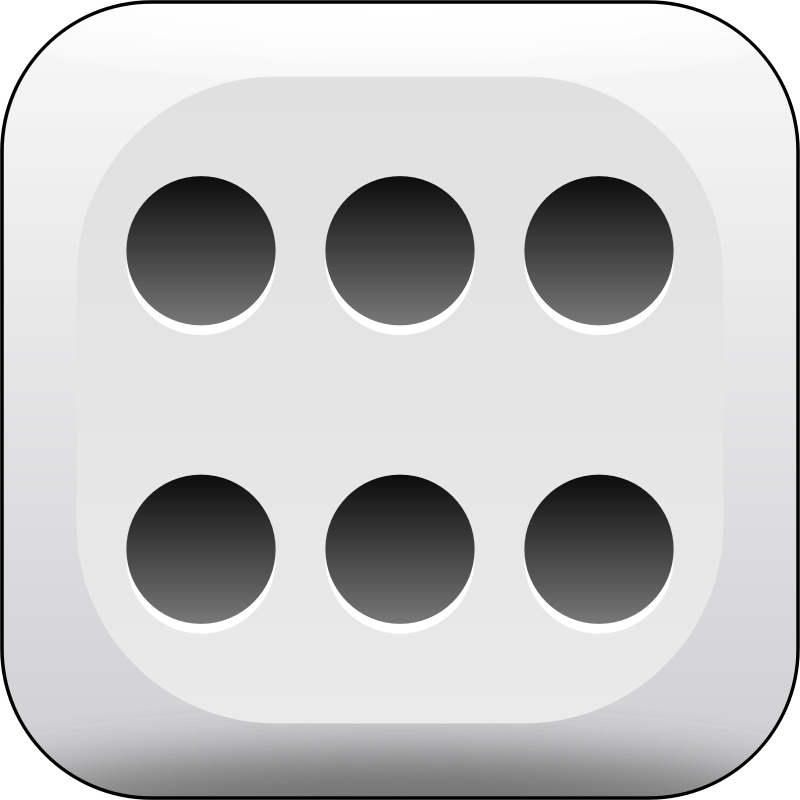
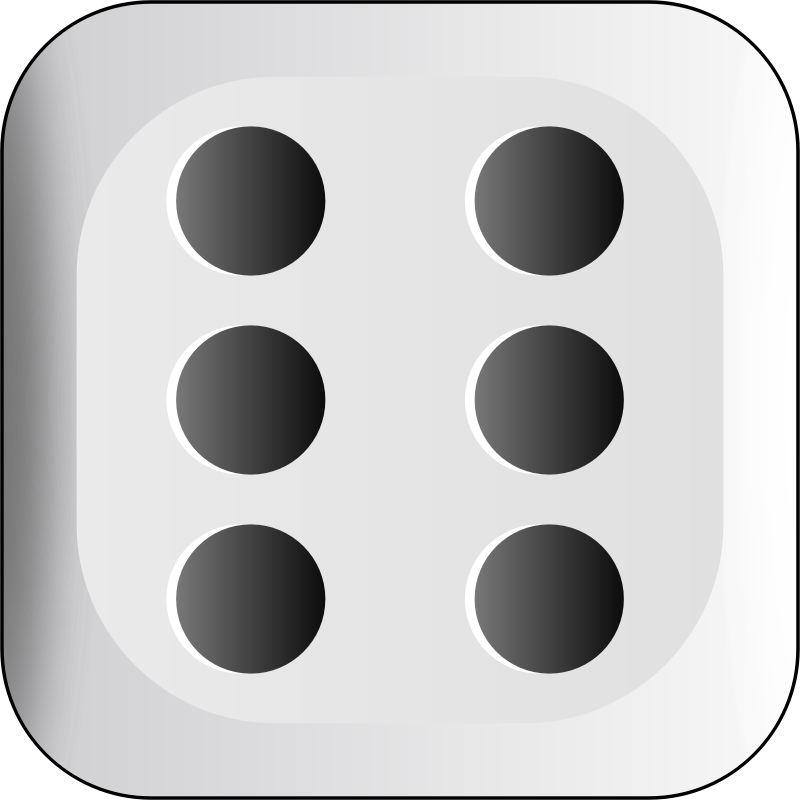
More ui layouting

diff --git a/internal/views/dice.go b/internal/views/dice.go
@@ -1,39 +1,103 @@
 package views
 
 import (
-	"fmt"
 	"github.com/ryjen/imgui-go"
 	"micrantha.com/yahtsee/internal/graphics"
+	"micrantha.com/yahtsee/internal/yahtsee"
+	"time"
 )
 
-const DiceViewID = "DiceView"
+const diceViewID = "DiceView"
 
-type DiceView struct {}
+var diceViewSize = imgui.Vec2{X: 200, Y: 170}
+
+type DiceView struct {
+	currentRoll yahtsee.Roll
+	selectedDice yahtsee.Roll
+}
+
+var diceTextures = [6]graphics.TextureTypes {
+	graphics.Die1,
+	graphics.Die2,
+	graphics.Die3,
+	graphics.Die4,
+	graphics.Die5,
+	graphics.Die6,
+}
+
+var selectedTextures = [6]graphics.TextureTypes {
+	graphics.Die1,
+	graphics.Die2,
+	graphics.Die3,
+	graphics.Die4,
+	graphics.Die5,
+	graphics.Die6,
+}
 
 func NewDiceView() *DiceView {
-	return &DiceView{}
+	return &DiceView{
+		currentRoll: yahtsee.Shake(),
+		selectedDice: yahtsee.Roll{},
+	}
+}
+
+func (view *DiceView) showDie(pos int) {
+
+	var texture *graphics.Texture
+
+	die := view.selectedDice[pos]
+
+	if die == 0 {
+
+		die = view.currentRoll[pos]
+
+		texture = graphics.Textures.Get(diceTextures[die-1])
+
+	} else {
+		texture = graphics.Textures.Get(selectedTextures[die-1])
+	}
+
+	size := imgui.Vec2{X: float32(48), Y: float32(48)}
+
+	imgui.Image(texture.Id, size)
+
+	//if imgui.ImageButton(texture.Id, size) {
+	//	view.selectedDice[pos] = die
+	//}
 }
 
 func (view *DiceView) Render() {
+	if imgui.BeginChildV(diceViewID, diceViewSize, true, 0) {
 
-	if imgui.BeginChild(DiceViewID) {
+		imgui.SameLineV(12, 0)
 
-		imgui.PushFont(graphics.Fonts.Get(graphics.FontAwesomeLarge))
+		imgui.BeginGroup()
 
-		imgui.Text(fmt.Sprintf("Ace %c", graphics.FontAwesomeDie1))
-		imgui.Text(string(graphics.FontAwesomeDie2))
-		imgui.Text(string(graphics.FontAwesomeDie3))
-		imgui.Text(string(graphics.FontAwesomeDie4))
-		imgui.Text(string(graphics.FontAwesomeDie5))
-		imgui.Text(string(graphics.FontAwesomeDie6))
+		imgui.ColumnsV(3, "DiceTextures", false)
 
-		imgui.PopFont()
+		for i := 0; i < len(view.currentRoll); i++ {
+			view.showDie(i)
 
-		//texture := graphics.Textures.Get(graphics.Die1)
-		//
-		//size := imgui.Vec2{X: float32(texture.Width), Y: float32(texture.Height)}
-		//
-		//imgui.Image(texture.Id, size)
+			imgui.NextColumn()
+			imgui.NextColumn()
+		}
+
+		imgui.EndGroup()
+	}
+	imgui.EndChild()
+
+	if imgui.BeginChildV("DiceActions", imgui.Vec2{X: 200, Y: 20 }, false, 0) {
+
+		imgui.SameLineV(50, 0)
+
+		if imgui.ButtonV("Roll", imgui.Vec2{X: 100, Y: 20}) {
+			go func() {
+				for i := 0; i < 15; i++ {
+					view.currentRoll = yahtsee.Shake()
+					time.Sleep(time.Millisecond * 100)
+				}
+			}()
+		}
 	}
 	imgui.EndChild()
 }

diff --git a/internal/views/sheet.go b/internal/views/sheet.go
@@ -7,21 +7,18 @@ import (
 	"strconv"
 )
 
-const (
-	// BoardViewID The id of the board view
-	BoardViewID = "BoardView"
-)
+const sheetViewID = "SheetView"
 
-var BoardSize = imgui.Vec2{ X:float32(650), Y:float32(415) }
+var sheetViewSize = imgui.Vec2{ X:float32(650), Y:float32(440) }
 
-// BoardView A view of the score sheet
-type BoardView struct {
+// SheetView A view of the score sheet
+type SheetView struct {
 	history []*yahtsee.Score
 }
 
-// NewBoardView Creates a new board view
-func NewBoardView() *BoardView {
-	view := &BoardView{nil}
+// NewSheetView Creates a new board view
+func NewSheetView() *SheetView {
+	view := &SheetView{nil}
 
 	view.history = append(view.history, &yahtsee.Score{})
 
@@ -29,15 +26,14 @@ func NewBoardView() *BoardView {
 }
 
 // CurrentScore gets the current score from the history
-func (view *BoardView) CurrentScore() *yahtsee.Score {
+func (view *SheetView) CurrentScore() *yahtsee.Score {
 	return view.history[0]
 }
 
 // Render displays the board view
-func (view *BoardView) Render() {
+func (view *SheetView) Render() {
 
-
-	if imgui.BeginChildV(BoardViewID, BoardSize, false, imgui.WindowFlagsAlwaysAutoResize) {
+	if imgui.BeginChildV(sheetViewID, sheetViewSize, false, imgui.WindowFlagsAlwaysAutoResize) {
 
 		imgui.ColumnsV(3, "Upper", true)
 
@@ -84,6 +80,6 @@ func (view *BoardView) Render() {
 }
 
 // Update updates logic in the board view
-func (view *BoardView) Update() {
+func (view *SheetView) Update() {
 
 }

diff --git a/internal/views/side.go b/internal/views/side.go
@@ -2,19 +2,23 @@ package views
 
 import "github.com/ryjen/imgui-go"
 
-const SideViewID = "SideView"
+const sideViewID = "SideView"
 
 var sideViewSize = imgui.Vec2{
-	X: 200, Y: 500,
+	X: 200, Y: 440,
 }
 
 type SideView struct {
+	players *PlayersView
 	dice *DiceView
+	chat *ChatView
 }
 
 func NewSideView() *SideView {
 	return &SideView{
+		players: NewPlayersView(),
 		dice: NewDiceView(),
+		chat: NewChatView(),
 	}
 }
 
@@ -22,12 +26,18 @@ func (view *SideView) Render() {
 
 	imgui.SameLine()
 
-	if imgui.BeginChildV(SideViewID, sideViewSize, true, imgui.WindowFlagsAlwaysAutoResize) {
+	if imgui.BeginChildV(sideViewID, sideViewSize, false, imgui.WindowFlagsAlwaysAutoResize) {
 
+		view.players.Render()
 		view.dice.Render()
+		view.chat.Render()
 	}
 
 	imgui.EndChild()
 }
 
-func (view *SideView) Update() {}
+func (view *SideView) Update() {
+	view.players.Update()
+	view.dice.Update()
+	view.chat.Update()
+}

diff --git a/internal/views/players.go b/internal/views/players.go
@@ -1,0 +1,40 @@
+package views
+
+import "github.com/ryjen/imgui-go"
+
+const playersViewId = "PlayersView"
+
+var playersViewSize = imgui.Vec2{X: 200, Y: 80 }
+
+type PlayersView struct {
+	OnSelect func()
+}
+
+func NewPlayersView() *PlayersView {
+	return &PlayersView{
+		OnSelect: func(){},
+	}
+}
+
+func (view *PlayersView) Render() {
+
+	if imgui.BeginChildV(playersViewId, playersViewSize, true, imgui.WindowFlagsMenuBar) {
+
+		if imgui.BeginMenuBar() {
+			if imgui.BeginMenu("Players") {
+				imgui.EndMenu()
+			}
+			imgui.EndMenuBar()
+		}
+
+		if imgui.Selectable("You") {
+			view.OnSelect()
+		}
+	}
+
+	imgui.EndChild()
+}
+
+func (view *PlayersView) Update() {
+
+}

diff --git a/internal/views/menu.go b/internal/views/menu.go
@@ -16,7 +16,7 @@ type MenuView struct {
 func NewMenuView(callbacks *MenuCallbacks) *MenuView {
 	return &MenuView{
 		callbacks: callbacks,
-		showAbout:	false,
+		showAbout: false,
 		showDemo: false,
 	}
 }
@@ -34,7 +34,6 @@ func (view *MenuView) Render() {
 			if imgui.MenuItemV("Exit", "X", false, true) {
 				view.callbacks.OnGameExit()
 			}
-
 			imgui.EndMenu()
 		}
 
@@ -46,10 +45,10 @@ func (view *MenuView) Render() {
 			if imgui.MenuItemV("Demo", "D", false, true) {
 				view.showDemo = true
 			}
-
 			imgui.EndMenu()
 		}
 	}
+
 	imgui.EndMainMenuBar()
 
 	if view.showAbout {

diff --git a/internal/ui.go b/internal/ui.go
@@ -38,9 +38,7 @@ func (ui *Ui) loadViews(config *Config)  {
 
 	ui.Add(views.NewMenuView(menu))
 
-	//ui.Add(views.NewDemoView())
-
-	ui.Add(views.NewBoardView())
+	ui.Add(views.NewSheetView())
 
 	ui.Add(views.NewSideView())
 }
@@ -93,9 +91,13 @@ func (ui *Ui) Render() {
 		imgui.WindowFlagsAlwaysAutoResize|imgui.WindowFlagsNoTitleBar|
 			imgui.WindowFlagsNoCollapse|imgui.WindowFlagsNoMove) {
 
+		imgui.PushFont(graphics.Fonts.Get(graphics.FontAwesome))
+
 		for _, view := range ui.views {
 			view.Render()
 		}
+
+		imgui.PopFont()
 	}
 
 	imgui.End()

diff --git a/internal/views/chat.go b/internal/views/chat.go
@@ -1,0 +1,34 @@
+package views
+
+import "github.com/ryjen/imgui-go"
+
+const chatViewID = "ChatView"
+
+var chatViewSize = imgui.Vec2{X: 200, Y: 110 }
+
+type ChatView struct {}
+
+func NewChatView() *ChatView {
+	return &ChatView{}
+}
+
+func (view *ChatView) Render() {
+
+	if imgui.BeginChildV(chatViewID, chatViewSize, true, imgui.WindowFlagsMenuBar) {
+
+		if imgui.BeginMenuBar() {
+
+			if imgui.BeginMenu("Chat") {
+				imgui.EndMenu()
+			}
+			imgui.EndMenuBar()
+		}
+
+	}
+
+	imgui.EndChild()
+}
+
+func (view *ChatView) Update() {
+
+}

diff --git a/internal/graphics/fonts.go b/internal/graphics/fonts.go
@@ -39,7 +39,7 @@ func (fonts *FontMap) Load() {
 
 	fonts.values[FontDefault] = font
 
-	font = atlas.AddFontFromFileTTF("assets/fontawesome.otf", 13)
+	font = atlas.AddFontFromFileTTF("assets/fontawesome.otf", 14)
 
 	fonts.values[FontAwesome] = font
 
